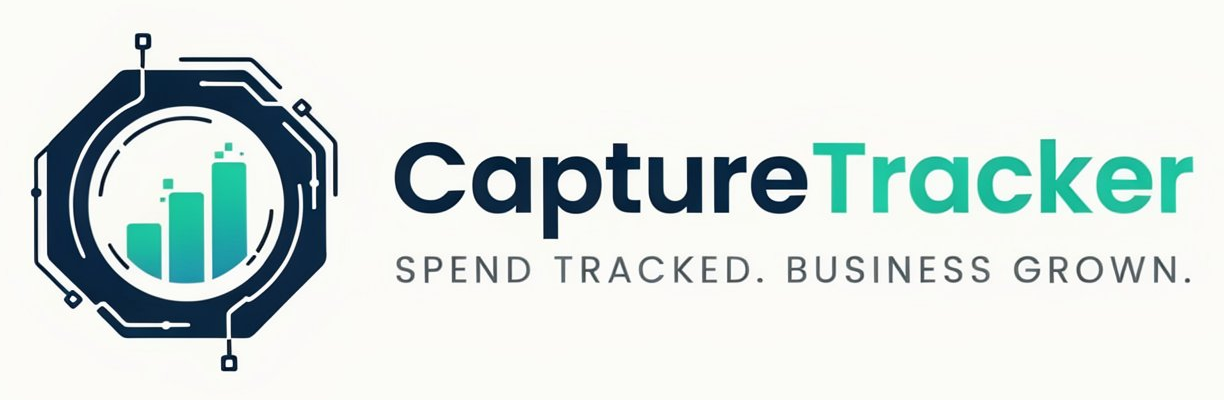
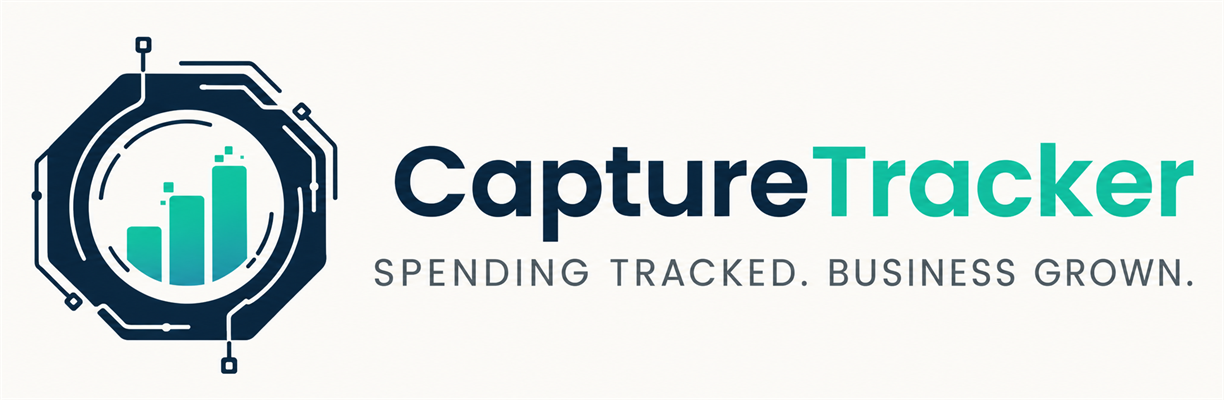
fix: correct capture tracker tagline

diff --git a/src/components/brand-tagline.test.ts b/src/components/brand-tagline.test.ts
@@ -1,0 +1,34 @@
+import { execFileSync } from "node:child_process";
+import { readFileSync } from "node:fs";
+import { resolve } from "node:path";
+
+import { describe, expect, it } from "vitest";
+
+const oldTagline = ["SPEND", "TRACKED. BUSINESS GROWN."].join(" ");
+const officialTagline = "SPENDING TRACKED. BUSINESS GROWN.";
+
+describe("Capture Tracker brand tagline", () => {
+  it("uses the official tagline and excludes the outdated copy from tracked text", () => {
+    const files = execFileSync("git", ["ls-files"], {
+      cwd: resolve(process.cwd()),
+      encoding: "utf8",
+    })
+      .split(/\r?\n/)
+      .filter(Boolean);
+
+    const trackedText = files
+      .map((file) => {
+        const source = readFileSync(resolve(process.cwd(), file));
+        return source.includes(0) ? "" : source.toString("utf8");
+      })
+      .join("\n");
+
+    expect(trackedText).not.toContain(oldTagline);
+    expect(readFileSync(resolve("src/components/brand.tsx"), "utf8")).toContain(
+      officialTagline,
+    );
+    expect(readFileSync(resolve("src/app/layout.tsx"), "utf8")).toContain(
+      officialTagline,
+    );
+  });
+});

diff --git a/src/lib/auth/staging-practice-account-core.test.ts b/src/lib/auth/staging-practice-account-core.test.ts
@@ -74,11 +74,6 @@ describe("fictional staging practice-account guard", () => {
       CAPTURE_TRACKER_ENVIRONMENT: "production",
       CAPTURE_TRACKER_EXECUTION_CONTEXT: "aws",
       CAPTURE_TRACKER_DEPLOYMENT_PROFILE: "production-secure-aws",
-      CAPTURE_TRACKER_PRODUCTION_DATABASE_NAME: "capture_tracker_production",
-      CAPTURE_TRACKER_PRODUCTION_DATABASE_URL: "postgresql://fixture:fixture@capture-tracker-production-pooler.us-east-1.aws.neon.tech/capture_tracker_production?sslmode=require",
-      CAPTURE_TRACKER_PRODUCTION_DIRECT_DATABASE_URL: "postgresql://fixture:fixture@capture-tracker-production.us-east-1.aws.neon.tech/capture_tracker_production?sslmode=require",
-      CAPTURE_TRACKER_PRODUCTION_KMS_KEY_ARN: "arn:aws:kms:us-east-1:123456789012:key/fixture",
-      CAPTURE_TRACKER_PRODUCTION_SECRET_ARN: "arn:aws:secretsmanager:us-east-1:123456789012:secret:fixture",
     });
 
     expect(isFictionalStagingPracticeSignupEnabled(production)).toBe(false);

diff --git a/src/app/layout.tsx b/src/app/layout.tsx
@@ -3,7 +3,8 @@ import "./globals.css";
 
 export const metadata: Metadata = {
   title: { default: "Capture Tracker", template: "%s | Capture Tracker" },
-  description: "A focused financial command center for a solo business owner.",
+  description:
+    "SPENDING TRACKED. BUSINESS GROWN. A focused financial command center for a solo business owner.",
   applicationName: "Capture Tracker",
   icons: {
     icon: "/brand/favicon-32.png",

diff --git a/src/components/brand.tsx b/src/components/brand.tsx
@@ -11,7 +11,7 @@ export function BrandLockup({
     <Image
       className={`h-auto w-full object-contain ${className}`}
       src="/brand/capture-tracker-lockup.png"
-      alt="Capture Tracker. SPEND TRACKED. BUSINESS GROWN."
+      alt="Capture Tracker. SPENDING TRACKED. BUSINESS GROWN."
       width={1224}
       height={400}
       priority={priority}

diff --git a/docs/DESIGN_SYSTEM.md b/docs/DESIGN_SYSTEM.md
@@ -9,7 +9,7 @@ The approved source is the supplied `capturetracker_logo.jpg`. Optimized faithfu
 - `capture-tracker-wordmark.png` — the original wordmark crop.
 - `favicon-16.png`, `favicon-32.png`, and `apple-touch-icon.png` — faithful icon derivatives.
 
-Do not redraw, recolor, distort, add effects to, or replace these assets. The tagline is **SPEND TRACKED. BUSINESS GROWN.** When the flattened lockup is used without separately rendered tagline text, its alt text must include that tagline.
+Do not redraw, recolor, distort, add effects to, or replace these assets. The tagline is **SPENDING TRACKED. BUSINESS GROWN.** When the flattened lockup is used without separately rendered tagline text, its alt text must include that tagline.
 
 ## Tokens
 
